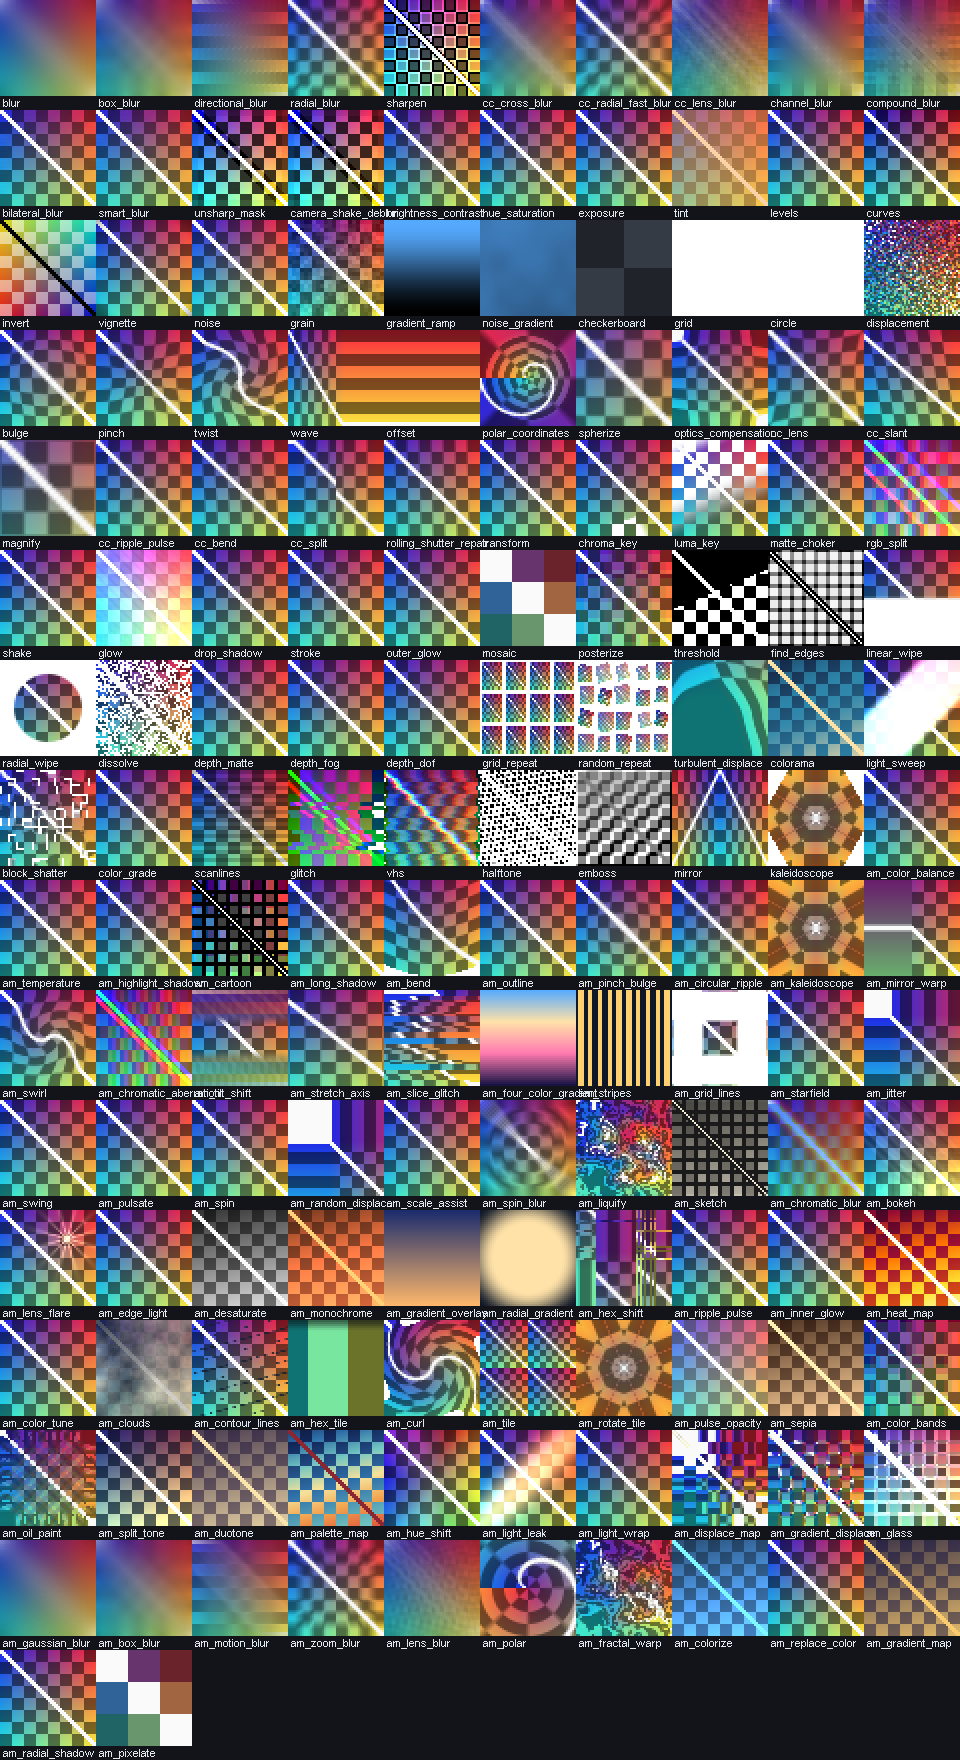
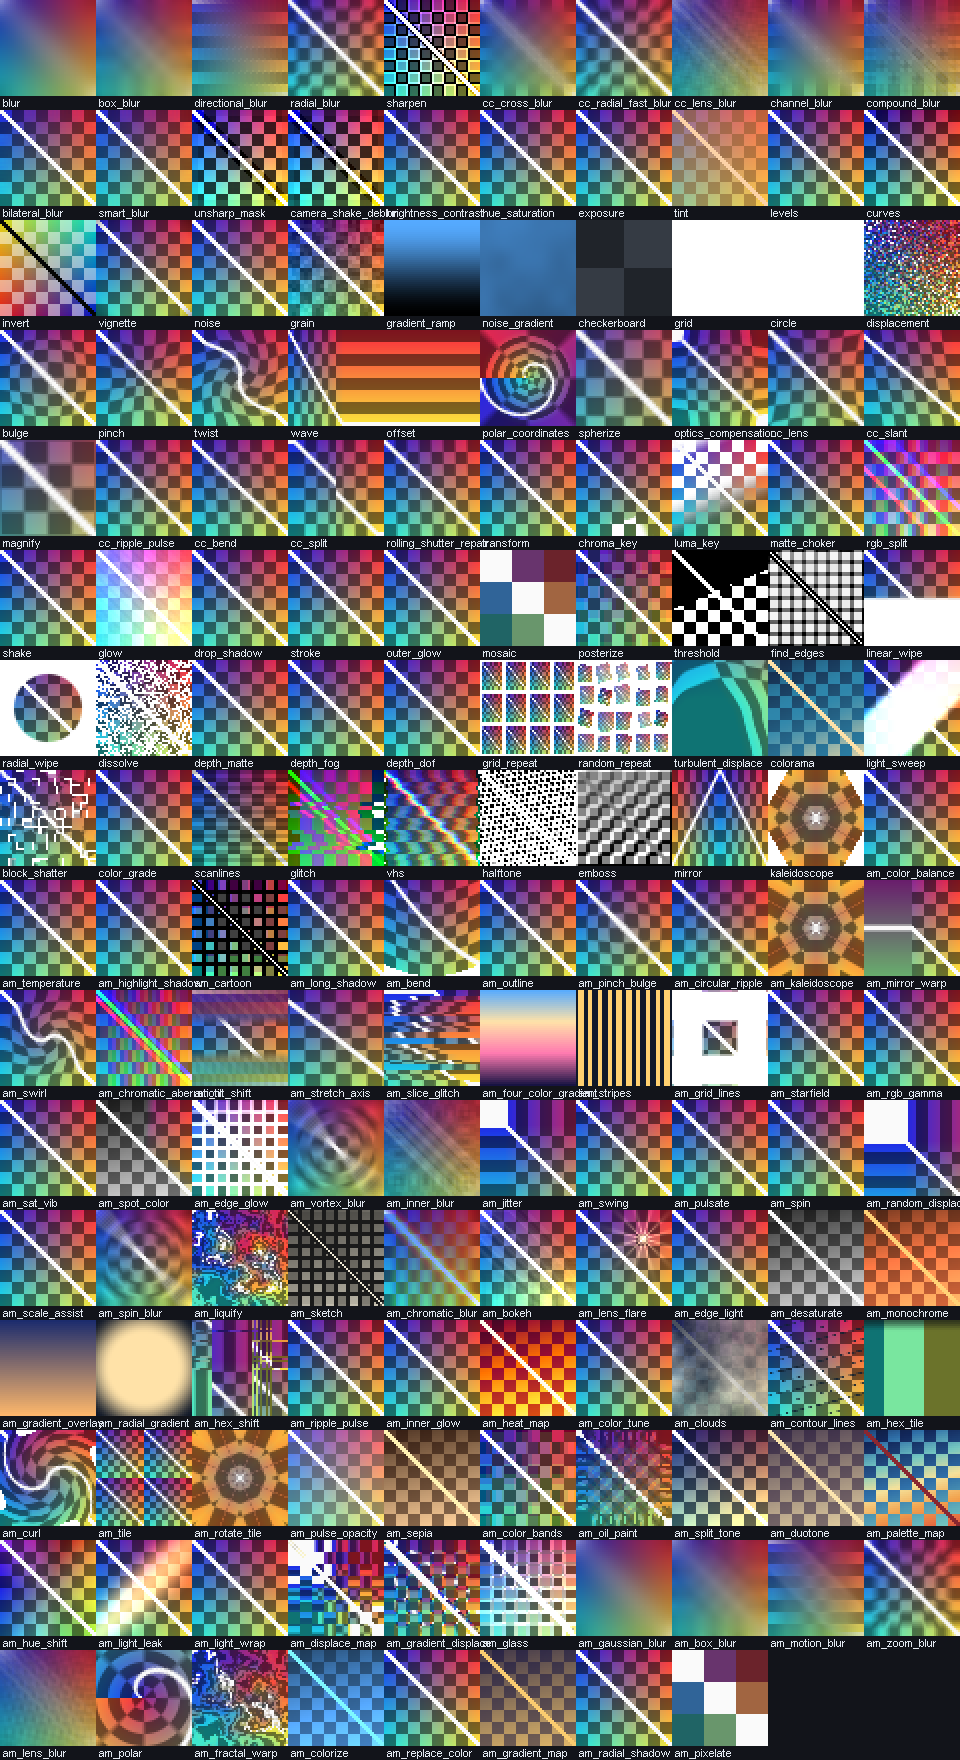
feat(0.43): colour, drawing and blur batch
- RGB 伽马 (per-channel gamma with an amount), 饱和度与自然饱和度 (saturation + vibrance),
  单色强调 (keep one hue, desaturate the rest) under AM · 调色.
- 发光边缘 (edge glow) under AM · 绘制; 漩涡模糊 (per-radius rotational blur) and 内模糊
  (alpha-masked blur) under AM · 模糊.
- All bodies use layer space and layer-pixel radii; rgb gamma, sat/vib and edge glow use
  neutralWhen for their non-zero identities; the rest declare zero parameters.
- 79 reference-compatible effects; ShaderCompileTest links every body; 321 tests green.
- Release bbsae-0.43.jar (SHA-256 AC34F705A7AD18AF623A8252EBCBB5D752B16E199E16105405B0C0FB1608947E).

Changed region(s): [[0.0, 0.5625, 1.0, 1.0]]

diff --git a/src/main/java/dev/bbsae/comp/AmEffectLibrary.java b/src/main/java/dev/bbsae/comp/AmEffectLibrary.java
@@ -495,6 +495,130 @@ public final class AmEffectLibrary
             .p("alpha", "不透明度", 0F, 1F, 1F, 0.01F)
             .p("seed", "随机种子", 0F, 9999F, 0F, 1F));
 
+        add(new AmEffectDef("am_rgb_gamma", "RGB 伽马", "AM · 调色", """
+            void main()
+            {
+                vec2 luv = layerUv(vUv);
+                vec4 c = sampleLayer(luv);
+                vec3 gamma = vec3(max(u_gamma_r, 0.01), max(u_gamma_g, 0.01), max(u_gamma_b, 0.01));
+                vec3 graded = pow(max(c.rgb, vec3(0.0)), vec3(1.0) / gamma);
+                fragColor = vec4(clamp(mix(c.rgb, graded, clamp(u_amount, 0.0, 1.0)), 0.0, 1.0), c.a);
+            }
+            """, 0F, null)
+            .neutralWhen((effect) ->
+                Math.abs(effect.valueF("gamma_r", 1F) - 1F) <= 0.0001F
+                    && Math.abs(effect.valueF("gamma_g", 1F) - 1F) <= 0.0001F
+                    && Math.abs(effect.valueF("gamma_b", 1F) - 1F) <= 0.0001F)
+            .p("gamma_r", "红通道伽马", 0.1F, 4F, 1F, 0.01F)
+            .p("gamma_g", "绿通道伽马", 0.1F, 4F, 1F, 0.01F)
+            .p("gamma_b", "蓝通道伽马", 0.1F, 4F, 1F, 0.01F)
+            .p("amount", "强度", 0F, 1F, 1F, 0.01F));
+
+        add(new AmEffectDef("am_sat_vib", "饱和度与自然饱和度", "AM · 调色", """
+            void main()
+            {
+                vec2 luv = layerUv(vUv);
+                vec4 c = sampleLayer(luv);
+                float y = luma(c.rgb);
+                float saturation = 1.0 + u_saturation;
+                vec3 saturated = mix(vec3(y), c.rgb, max(saturation, 0.0));
+                float natural = length(c.rgb - vec3(y));
+                float vibrance = 1.0 + u_vibrance * (1.0 - clamp(natural * 2.0, 0.0, 1.0));
+                vec3 rgb = mix(vec3(y), saturated, max(vibrance, 0.0));
+                fragColor = vec4(clamp(rgb, 0.0, 1.0), c.a);
+            }
+            """, 0F, null)
+            .neutralWhen((effect) ->
+                Math.abs(effect.valueF("saturation", 0F)) <= 0.0001F
+                    && Math.abs(effect.valueF("vibrance", 0F)) <= 0.0001F)
+            .p("saturation", "饱和度", -1F, 2F, 0F, 0.01F)
+            .p("vibrance", "自然饱和度", -1F, 2F, 0F, 0.01F));
+
+        add(new AmEffectDef("am_spot_color", "单色强调", "AM · 调色", """
+            void main()
+            {
+                vec2 luv = layerUv(vUv);
+                vec4 c = sampleLayer(luv);
+                vec3 target = rgb2hsv(u_color.rgb);
+                vec3 hsv = rgb2hsv(c.rgb);
+                float dh = abs(hsv.x - target.x);
+                dh = min(dh, 1.0 - dh);
+                float keep = 1.0 - smoothstep(u_range * 0.5, u_range * 0.5 + u_softness, dh);
+                float y = luma(c.rgb);
+                vec3 desaturated = vec3(y);
+                vec3 rgb = mix(desaturated, c.rgb, mix(1.0, keep, clamp(u_amount, 0.0, 1.0)));
+                fragColor = vec4(clamp(rgb, 0.0, 1.0), c.a);
+            }
+            """, 0F, "amount")
+            .p("amount", "强度", 0F, 1F, 1F, 0.01F)
+            .p("range", "保留范围", 0.01F, 1F, 0.18F, 0.01F)
+            .p("softness", "边缘柔和", 0.001F, 0.5F, 0.08F, 0.001F)
+            .c("color", "保留颜色", 0xFFE23A3A));
+
+        add(new AmEffectDef("am_edge_glow", "发光边缘", "AM · 绘制", """
+            void main()
+            {
+                vec2 luv = layerUv(vUv);
+                vec4 c = sampleLayer(luv);
+                float centre = luma(c.rgb);
+                float left = luma(sampleLayer(luv - vec2(LayerTexel.x, 0.0)).rgb);
+                float right = luma(sampleLayer(luv + vec2(LayerTexel.x, 0.0)).rgb);
+                float up = luma(sampleLayer(luv - vec2(0.0, LayerTexel.y)).rgb);
+                float down = luma(sampleLayer(luv + vec2(0.0, LayerTexel.y)).rgb);
+                float edge = clamp(length(vec2(right - left, down - up)) * 4.0, 0.0, 1.0);
+                vec3 rgb = clamp(c.rgb + u_color.rgb * edge * clamp(u_strength, 0.0, 3.0), 0.0, 1.0);
+                fragColor = vec4(rgb, c.a);
+            }
+            """, 0F, "strength")
+            .p("strength", "强度", 0F, 3F, 1F, 0.01F)
+            .c("color", "发光颜色", 0xFFFFFFFF));
+
+        add(new AmEffectDef("am_vortex_blur", "漩涡模糊", "AM · 模糊", """
+            void main()
+            {
+                vec2 luv = layerUv(vUv);
+                vec2 center = vec2(u_center_x, u_center_y);
+                vec2 d = luv - center;
+                vec4 sum = vec4(0.0);
+
+                for (int i = 0; i < 20; i++)
+                {
+                    float t = (float(i) / 19.0 - 0.5) * radians(u_angle);
+                    float c = cos(t);
+                    float s = sin(t);
+                    vec2 rotated = vec2(c * d.x - s * d.y, s * d.x + c * d.y);
+                    sum += sampleLayer(center + rotated);
+                }
+
+                fragColor = sum / 20.0;
+            }
+            """, 0.5F, "angle")
+            .p("angle", "角度", -180F, 180F, 30F, 0.5F)
+            .p("center_x", "中心 X", 0F, 1F, 0.5F, 0.01F)
+            .p("center_y", "中心 Y", 0F, 1F, 0.5F, 0.01F));
+
+        add(new AmEffectDef("am_inner_blur", "内模糊", "AM · 模糊", """
+            void main()
+            {
+                vec2 luv = layerUv(vUv);
+                vec4 c = sampleLayer(luv);
+                vec4 sum = vec4(0.0);
+
+                for (int i = 0; i < 16; i++)
+                {
+                    float a = float(i) * 0.3926991;
+                    float r = u_radius / max(LayerSize.x, 1.0);
+                    sum += sampleLayer(luv + vec2(cos(a), sin(a)) * r);
+                }
+
+                vec4 blurred = sum / 16.0;
+                float inside = clamp(c.a, 0.0, 1.0);
+                fragColor = vec4(mix(c.rgb, blurred.rgb, inside * clamp(u_strength, 0.0, 1.0)), c.a);
+            }
+            """, 0F, "radius")
+            .p("radius", "半径（像素）", 0F, 80F, 10F, 1F)
+            .p("strength", "强度", 0F, 1F, 1F, 0.01F));
+
         add(new AmEffectDef("am_jitter", "抖动", "AM · 变换", """
             void main()
             {

diff --git a/src/test/java/dev/bbsae/comp/AmEffectLibraryTest.java b/src/test/java/dev/bbsae/comp/AmEffectLibraryTest.java
@@ -37,7 +37,7 @@ public class AmEffectLibraryTest
             assertTrue(definition.body.contains("fragColor"), "body writes no colour: " + definition.id);
         }
 
-        assertTrue(ids.size() >= 73, "the catalogue should have grown with the transform batch");
+        assertTrue(ids.size() >= 79, "the catalogue should have grown with the colour/drawing batch");
     }
 
     @Test
@@ -129,6 +129,12 @@ public class AmEffectLibraryTest
         assertNeutral("am_spin", "speed", 0F);
         assertNeutral("am_random_displace", "amount", 0F);
         assertNeutral("am_scale_assist", "scale_x", 1F);
+        assertNeutral("am_rgb_gamma", "gamma_r", 1F);
+        assertNeutral("am_sat_vib", "saturation", 0F);
+        assertNeutral("am_spot_color", "amount", 0F);
+        assertNeutral("am_edge_glow", "strength", 0F);
+        assertNeutral("am_vortex_blur", "angle", 0F);
+        assertNeutral("am_inner_blur", "radius", 0F);
 
         CompEffect balance = CompEffectRegistry.create("am_color_balance", 1);
 

diff --git a/README.md b/README.md
@@ -110,15 +110,15 @@ export** without touching the `.dat` film format.
 
 ## Download / Install
 
-1. Download [`bbsae-0.42.jar`](https://github.com/zhongend/bbsae/releases/download/v0.42/bbsae-0.42.jar)
-   from the **v0.42** release (the asset is updated with each source push).
+1. Download [`bbsae-0.43.jar`](https://github.com/zhongend/bbsae/releases/download/v0.43/bbsae-0.43.jar)
+   from the **v0.43** release (the asset is updated with each source push).
 2. Install **Minecraft 1.20.1**, **Fabric Loader 0.16.14+**, **Fabric API 0.92.1+1.20.1** and
    **BBS FS 2.7-1.20.1**.
-3. Put `bbsae-0.42.jar` and the BBS FS jar into the game's `mods/` folder.
+3. Put `bbsae-0.43.jar` and the BBS FS jar into the game's `mods/` folder.
 4. Launch the game, open a film in BBS, select a replay, then use
    **Replay properties → Compositor → Open Film Compositor**.
 
[2 lines of base64/hex data omitted]
 
 ## Gallery
 
@@ -185,6 +185,15 @@ The compositor does not re-encode films or patch `.dat` files. BBS serializes a 
 `RegisterFrameOverlaysEvent` point. That means the same composition appears in BBS's preview and in
 its FFmpeg film export, and BBS keeps ownership of keyframes, undo, project storage and video
 encoding.
+
+## What's new in 0.43 — colour, drawing and blur batch
+
+- **RGB 伽马** (per-channel gamma), **饱和度与自然饱和度**, **单色强调** (keep one hue, desaturate
+  the rest) in `AM · 调色`.
+- **发光边缘** (edge glow) in `AM · 绘制`; **漩涡模糊** (per-radius rotational blur) and
+  **内模糊** (alpha-masked blur) in `AM · 模糊`.
+- 79 reference-compatible effects; every body is in layer space and declares an identity.
+- 321 tests green.
 
 ## What's new in 0.42 — animated transform effects
 

diff --git a/docs/EFFECT-LIBRARY-PLAN.zh.md b/docs/EFFECT-LIBRARY-PLAN.zh.md
@@ -45,7 +45,7 @@
 新增三层，效果不再需要写进 `EffectRenderer` 的巨型 switch：
 
 - `comp/AmEffectDef`：id、显示名、分类、参数表（float/color）、`main()` 片段、零点参数。
-- `comp/AmEffectLibrary`：73 个效果的定义（色彩平衡、色温、高光与阴影、卡通、长阴影、
+- `comp/AmEffectLibrary`：79 个效果的定义（色彩平衡、色温、高光与阴影、卡通、长阴影、
   弯曲、描边、收缩与膨胀、圆形波纹、万花筒、镜像、旋转扭曲、像素化、极坐标、分形扭曲、
   色彩化、替换颜色、渐变映射、径向阴影），参数名/范围/默认值与参考应用一致。
 - `client/render/AmEffectRenderer`：按定义拼装完整 fragment（标准 uniform + 参数 uniform +
@@ -172,6 +172,8 @@ switch 中拆出来：
     之前代理预览下所有半径/距离会按代理比例缩小，预览与导出不一致。
 4.21 **模糊/风格批**（旋转模糊、液化、素描、彩色模糊、散景；已完成）
 4.22 **变换特效批**（抖动、摇摆、脉动缩放、旋转、随机位移、缩放辅助；已完成）
+4.23 **调色/绘制/模糊批**（RGB 伽马、饱和度与自然饱和度、单色强调、发光边缘、漩涡模糊、
+    内模糊；已完成）
     - 时间驱动效果使用 `Time`（合成时间），暂停/导出时行为一致；
     - 缩放辅助使用 `neutralWhen` 在 X/Y 缩放都为 1 时判定为原图。
 4.20 **图层空间适配（第一性原理修正）**
